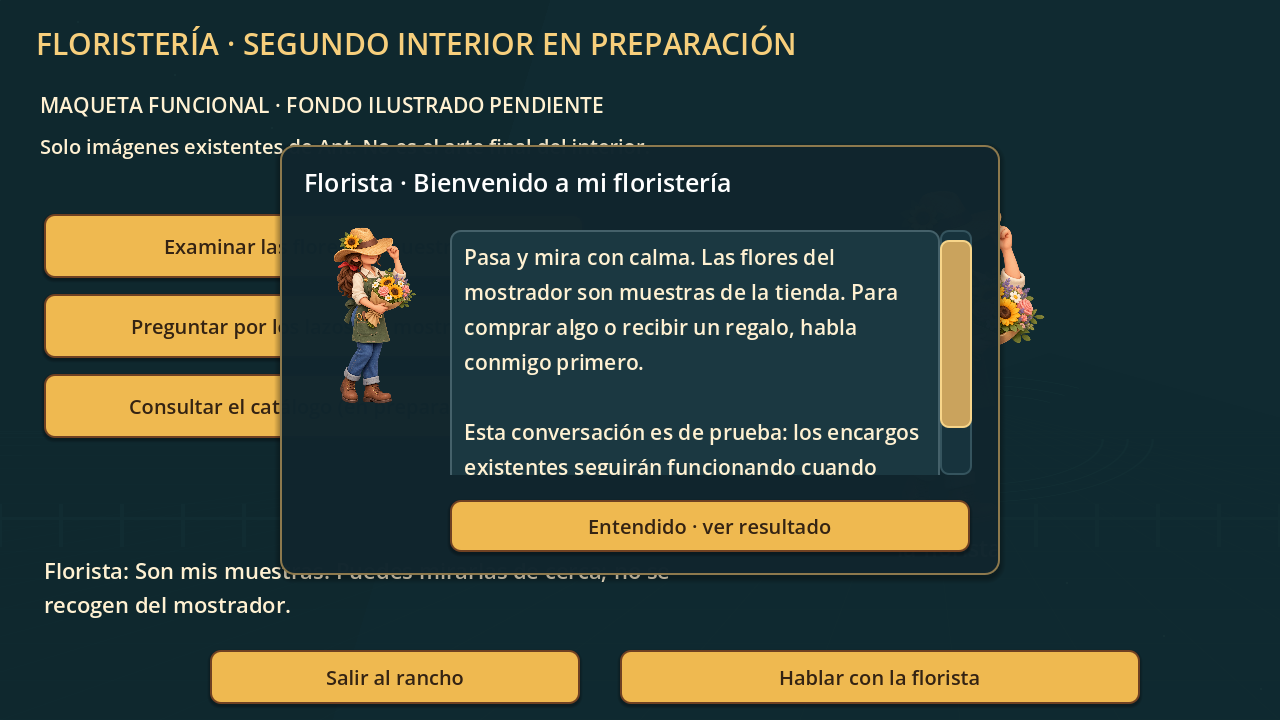
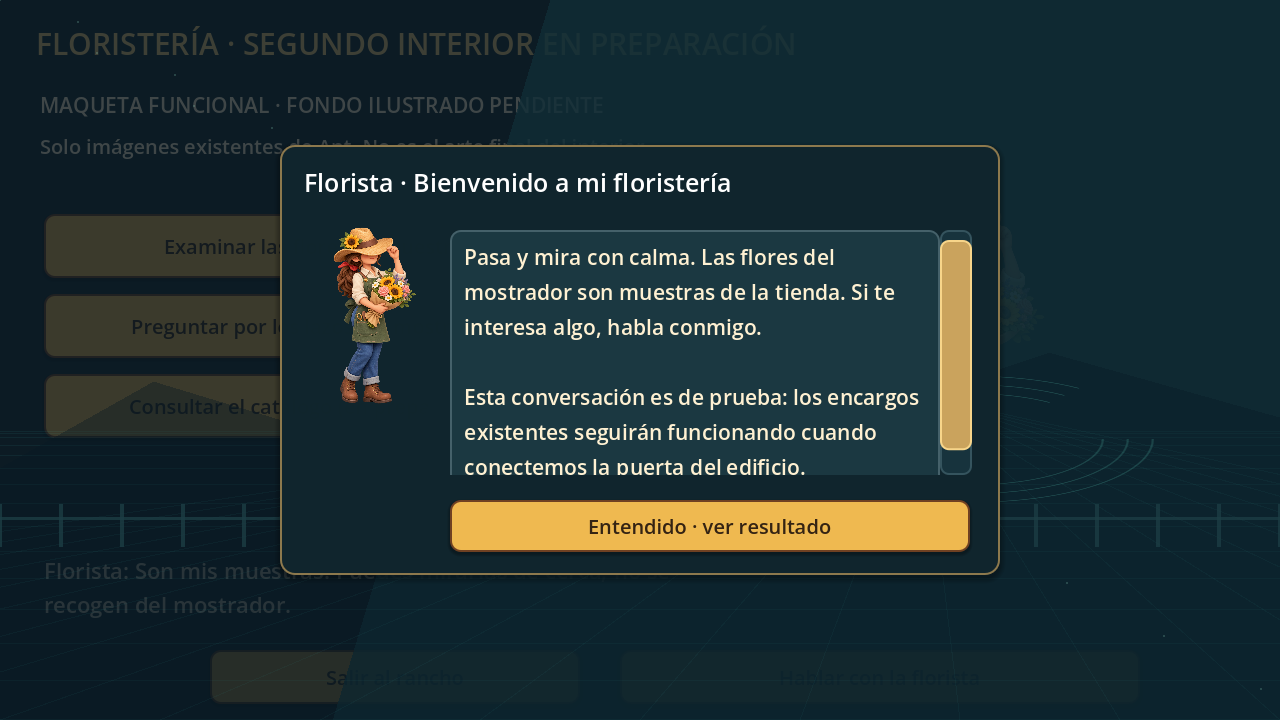
fix: invite interest without promising gifts in interior dialogue

diff --git a/docs/interiors262/PLAN.md b/docs/interiors262/PLAN.md
@@ -18,7 +18,8 @@ No hay fondo interior de floristería entre los assets actuales. La maqueta lo i
 - Puerta cercana y botón Entrar. El vecino no se duplica fuera/dentro.
 - Congelar movimiento y lazo del jugador; volver al punto exterior seguro que corresponde a esa puerta.
 - Cerrar diálogo antes que habitación con Atrás; no dejar pulsaciones pasar al mundo.
-- Interacciones separadas: **Examinar**, **Preguntar/Pedir permiso**, **Recibir regalo**, **Comprar por X puntos**.
+- Acciones iniciales del jugador: **Examinar** e **Interesarse/Preguntar**. Invitación común: "Si te interesa algo, habla conmigo". No anunciar regalos ni ofrecer al jugador elegir entre comprar o pedir un regalo.
+- El personaje decide por objeto si lo vende, lo regala o no lo ofrece. Solo después aparece su oferta concreta con precio o entrega, y el jugador puede aceptarla o rechazarla.
 - Nunca recoger objetos de un mostrador al pasar o tocarlos. No hay botín de pertenencias privadas.
 - Una compra muestra precio y efecto; un regalo tiene un ofrecimiento del dueño. Comprobar capacidad/saldo y guardar de forma atómica; si falla el guardado, no descontar ni entregar y comunicarlo.
 - Los regalos únicos necesitan identificador de edificio/objeto en el guardado; no una variable de la escena. Aún no hay regalos/compras nuevos en esta maqueta.
@@ -30,3 +31,7 @@ Se reutilizan `art/npc/florist.png`, `art/npc/farmer.png`, los personajes existe
 ## Próximo paso comprobable
 
 Con el fondo de floristería: revisar perspectiva y espacio útil, integrar imagen, conectar la puerta y el diálogo existente sin recursión entre servicio/interior, retirar la florista exterior y probar encargos antiguos/nuevos, salida, carga de partida y controles. Después entregar APK de prueba. Hasta entonces, 2.7.189 sigue siendo la APK vigente.
+
+## Ajuste de tono de Ant (18 de noviembre, 08:39-08:40)
+
+La florista y los demás personajes no anuncian regalos al recibir al jugador. Invitan a hablar si algo le interesa. La decisión de vender o regalar corresponde al personaje, no a un selector del jugador. Las reglas de guardado anteriores se aplicarán a una oferta del personaje ya definida.
